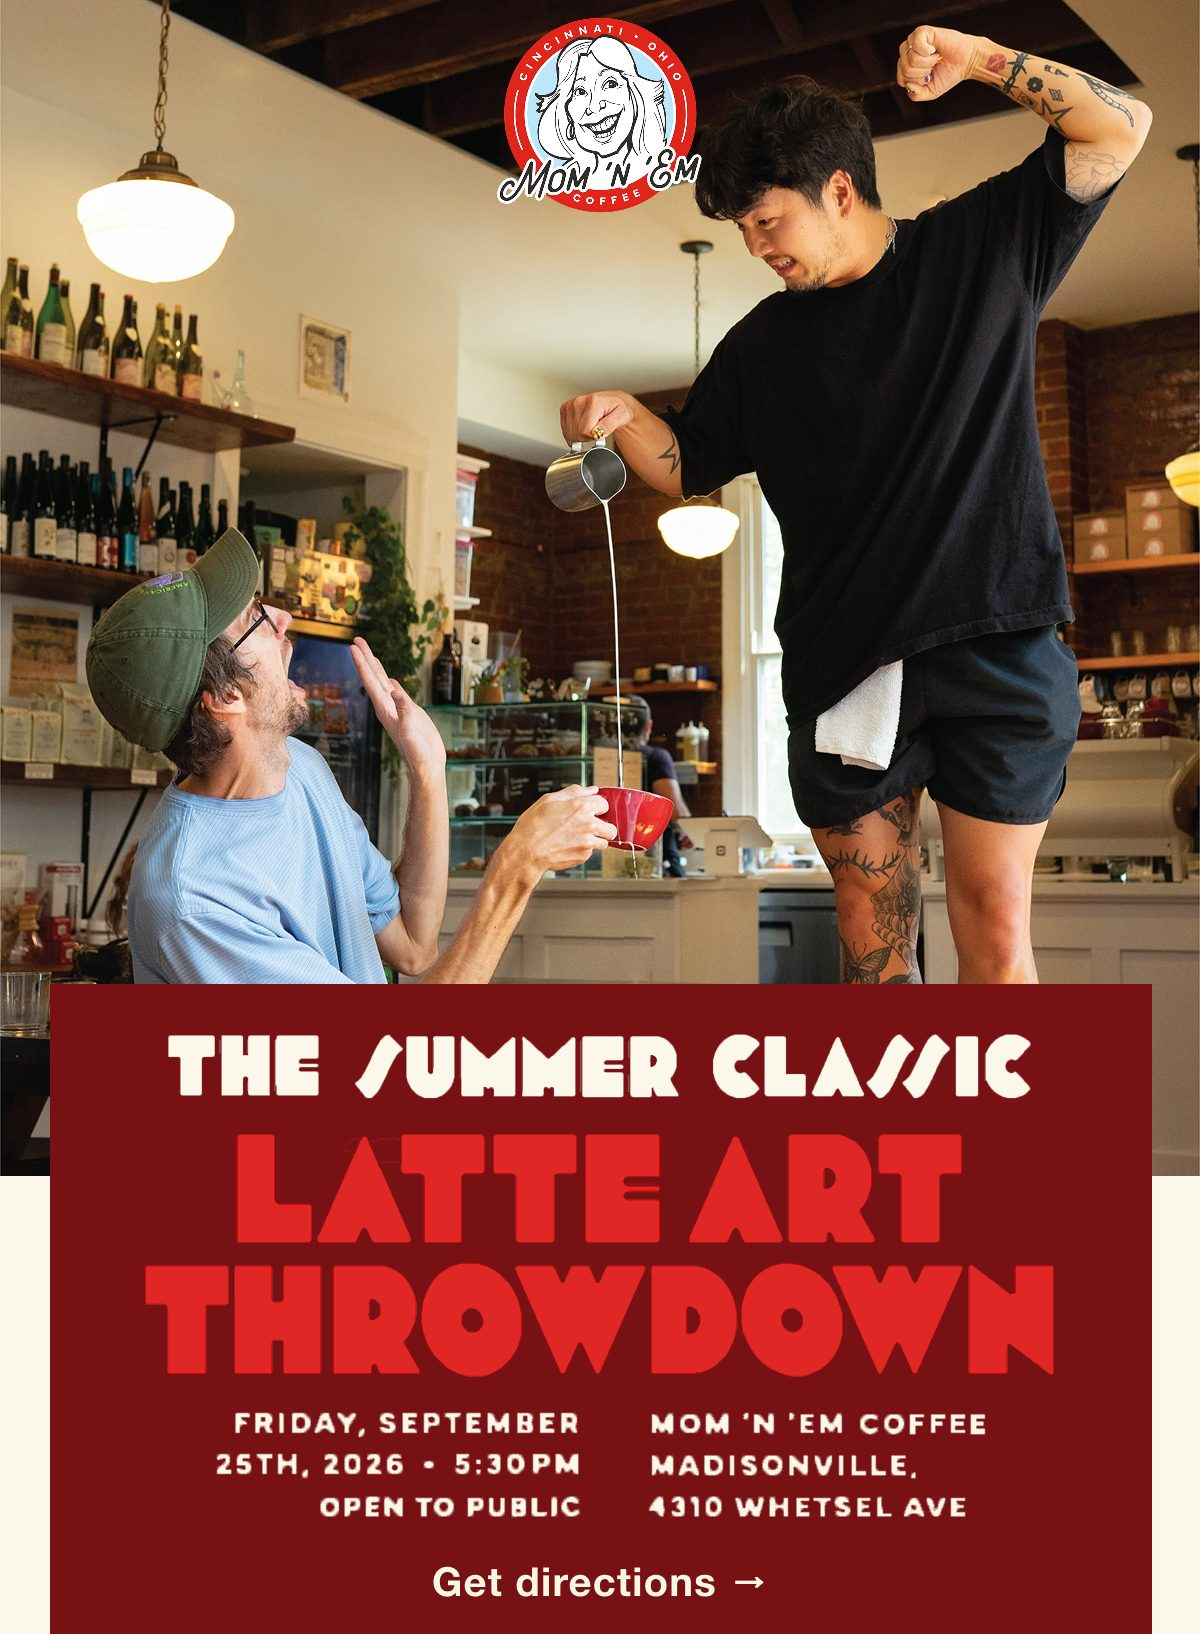
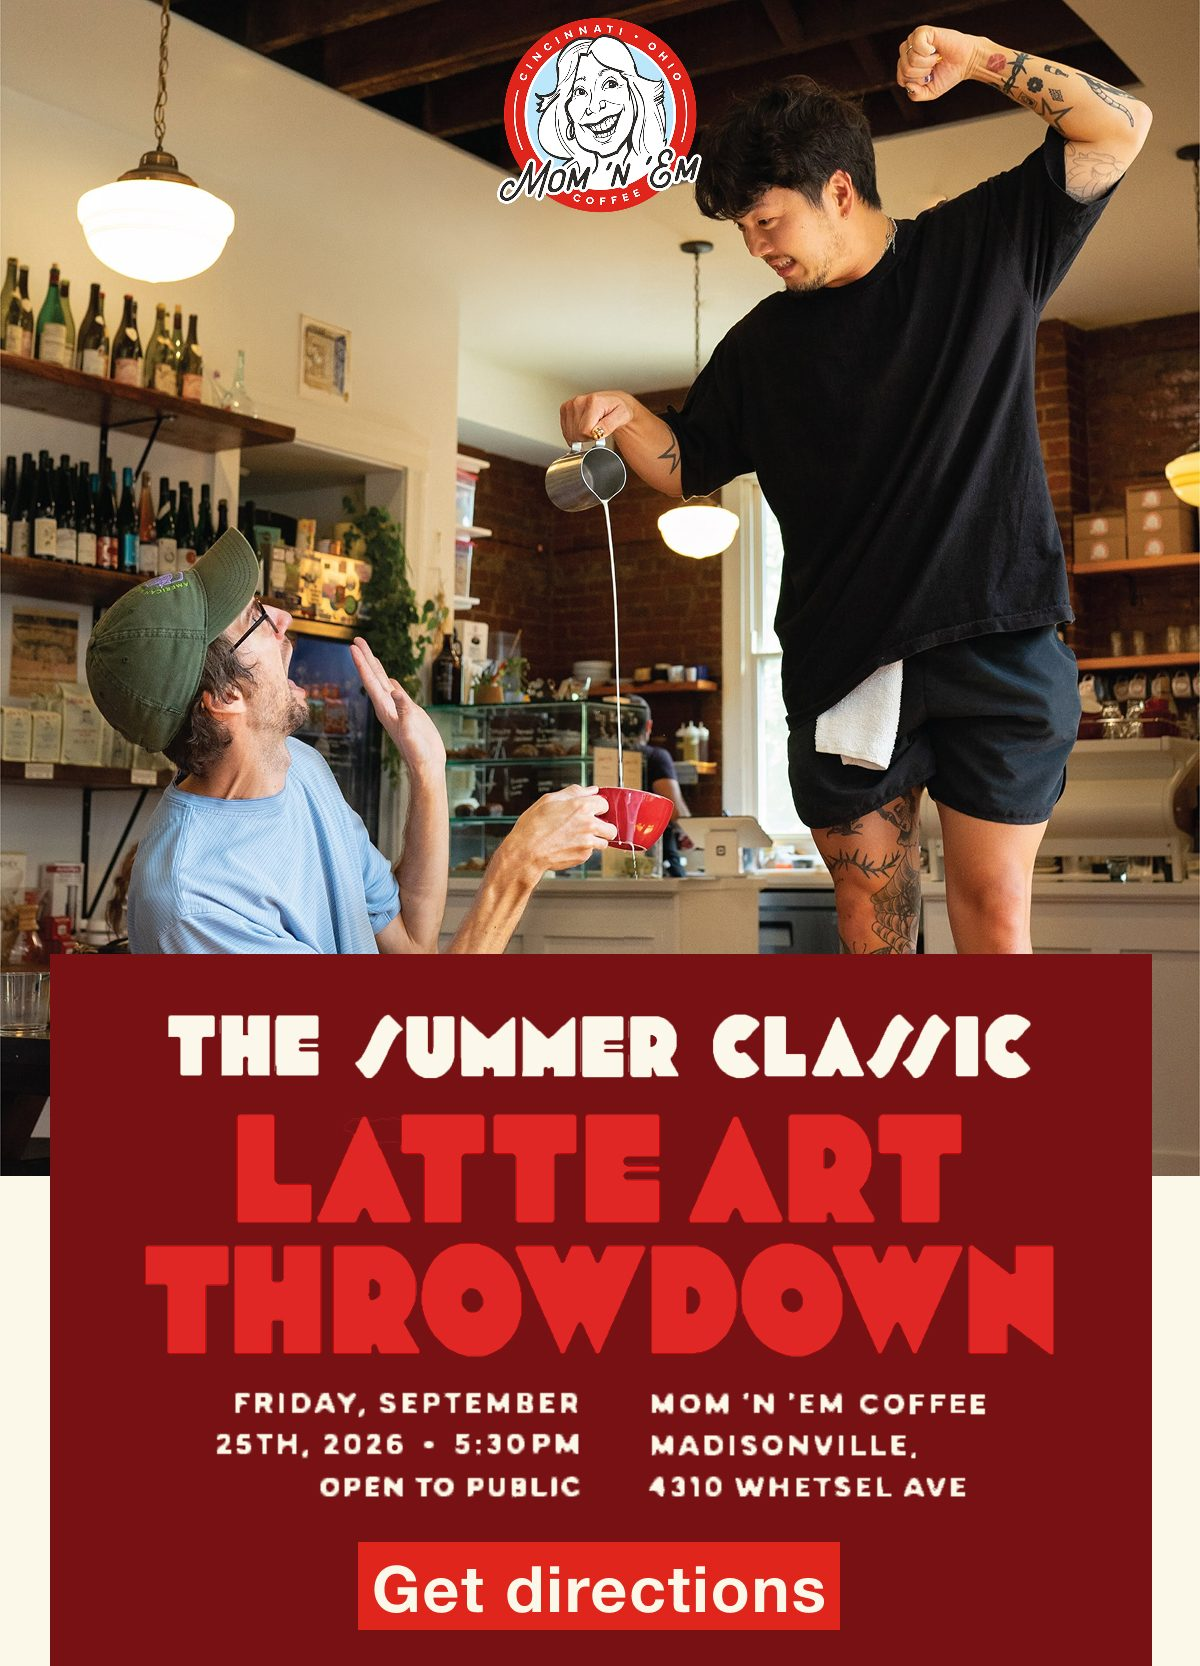
New hero with directions button; distinct imagery per email in the sequence

diff --git a/momnem/index.html b/momnem/index.html
@@ -59,12 +59,12 @@
   <div>
     <div class="phone">
       <div class="bar"><i></i></div>
-      <div class="screen"><iframe src="email.html?v=20260913232848" title="Latte Art Throwdown announcement email" loading="lazy"></iframe></div>
+      <div class="screen"><iframe src="email.html?v=20260913233320" title="Latte Art Throwdown announcement email" loading="lazy"></iframe></div>
     </div>
     <div class="tabs" role="tablist">
-        <button role="tab" aria-selected="true"  data-src="email.html?v=20260913232848">1 · Announce</button>
-        <button role="tab" aria-selected="false" data-src="email-2.html?v=20260913232848">2 · Reminder</button>
-        <button role="tab" aria-selected="false" data-src="email-3.html?v=20260913232848">3 · Day-of</button>
+        <button role="tab" aria-selected="true"  data-src="email.html?v=20260913233320">1 · Announce</button>
+        <button role="tab" aria-selected="false" data-src="email-2.html?v=20260913233320">2 · Reminder</button>
+        <button role="tab" aria-selected="false" data-src="email-3.html?v=20260913233320">3 · Day-of</button>
       </div>
       <div class="hint">scroll inside &darr;</div>
   </div>

diff --git a/momnem/email-3.html b/momnem/email-3.html
@@ -20,7 +20,7 @@
        the only viral mechanic a day-of email has. -->
   <tr><td style="font-size:0;line-height:0;">
     <a href="https://maps.google.com/?q=4310+Whetsel+Ave+Cincinnati+OH+45227" style="text-decoration:none;">
-      <img src="hero.jpg" alt="The Summer Classic Latte Art Throwdown. Tonight, 5:30PM. Mom 'n 'em Madisonville, 4310 Whetsel Ave." width="600" style="display:block;width:100%;max-width:600px;height:auto;border:0;"></a>
+      <img src="pitcher.png" alt="Latte art throwdown tonight at Mom 'n 'em Madisonville" width="600" style="display:block;width:100%;max-width:600px;height:auto;border:0;"></a>
   </td></tr>
 
   <!-- five seconds on a phone. that is the whole budget. -->

diff --git a/momnem/email-2.html b/momnem/email-2.html
@@ -22,7 +22,7 @@
   <!-- different hero from the announce, so it does not read as a resend -->
   <tr><td style="font-size:0;line-height:0;">
     <a href="https://maps.google.com/?q=4310+Whetsel+Ave+Cincinnati+OH+45227" style="text-decoration:none;">
-      <img src="prize.jpg" alt="The grand prize, a Fellow Series 1 espresso machine" width="600" style="display:block;width:100%;max-width:600px;height:auto;border:0;"></a>
+      <img src="prize-tight.jpg" alt="The grand prize, a Fellow Series 1 espresso machine" width="600" style="display:block;width:100%;max-width:600px;height:auto;border:0;"></a>
   </td></tr>
 
   <!-- LEAD CHANGES: the reader already knows what it is. The question now is
